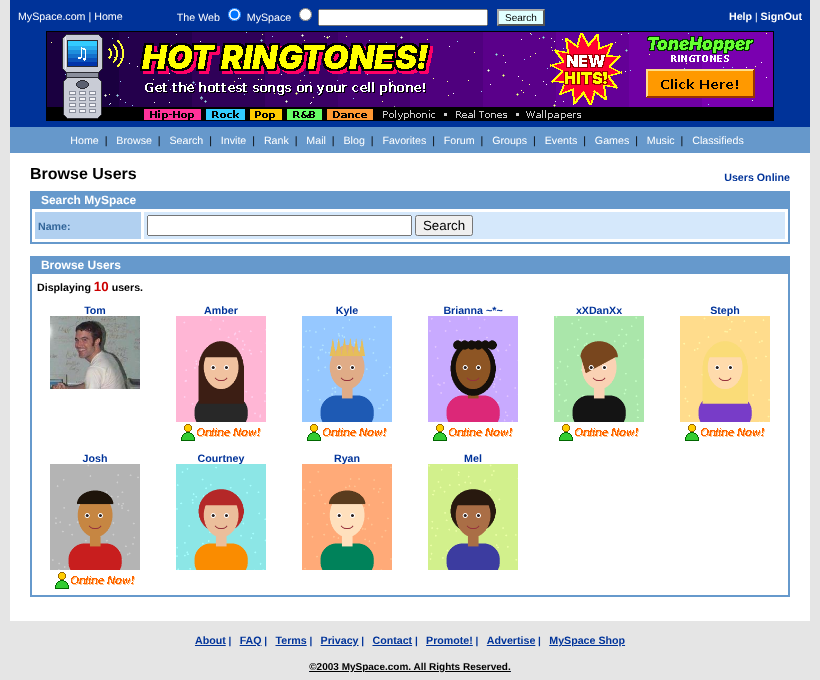
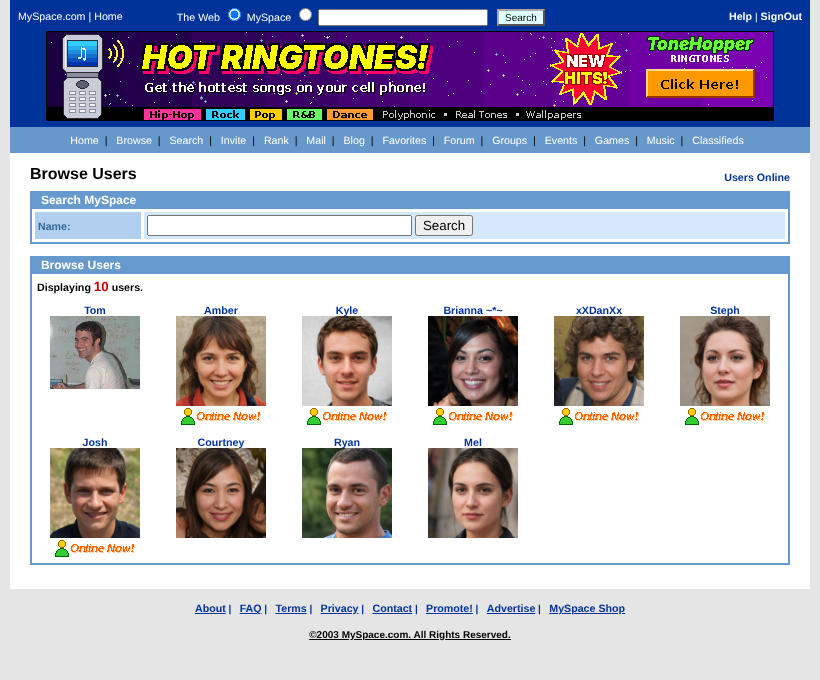
Use AI-generated faces and profile songs in README screenshots
Demo users now have photos of people who don't exist (generated by
thispersondoesnotexist.com) instead of cartoon avatars, and every demo
profile shows a profile song from the era (title only, no audio).

Claude-Session: https://claude.ai/code/session_01Avm9F5PaQ4h14F5EoxxvpL

Changed region(s): [[0.0, 0.4632, 1.0, 0.9882], [0.8232, 0.4632, 0.9451, 0.6485], [0.6707, 0.4632, 0.7927, 0.6485]]

diff --git a/README.md b/README.md
@@ -14,7 +14,9 @@ The recreation is a representation of Myspace how it was originally in the year 
 
 ## Screenshots
 The homepage and profile are rebuilt from archived 2005 captures of myspace.com, using the original stylesheets.
-Screenshots use demo data: apart from Tom, the users are fictional, and so are the advertisers.
+Screenshots use demo data: apart from Tom, the users are fictional, with AI-generated faces from
+[thispersondoesnotexist.com](https://thispersondoesnotexist.com). The advertisers are made up, and
+the profile songs are just titles, with no audio uploaded.
 
 #### Homepage
 ![Homepage](docs/screenshots/homepage.png)
